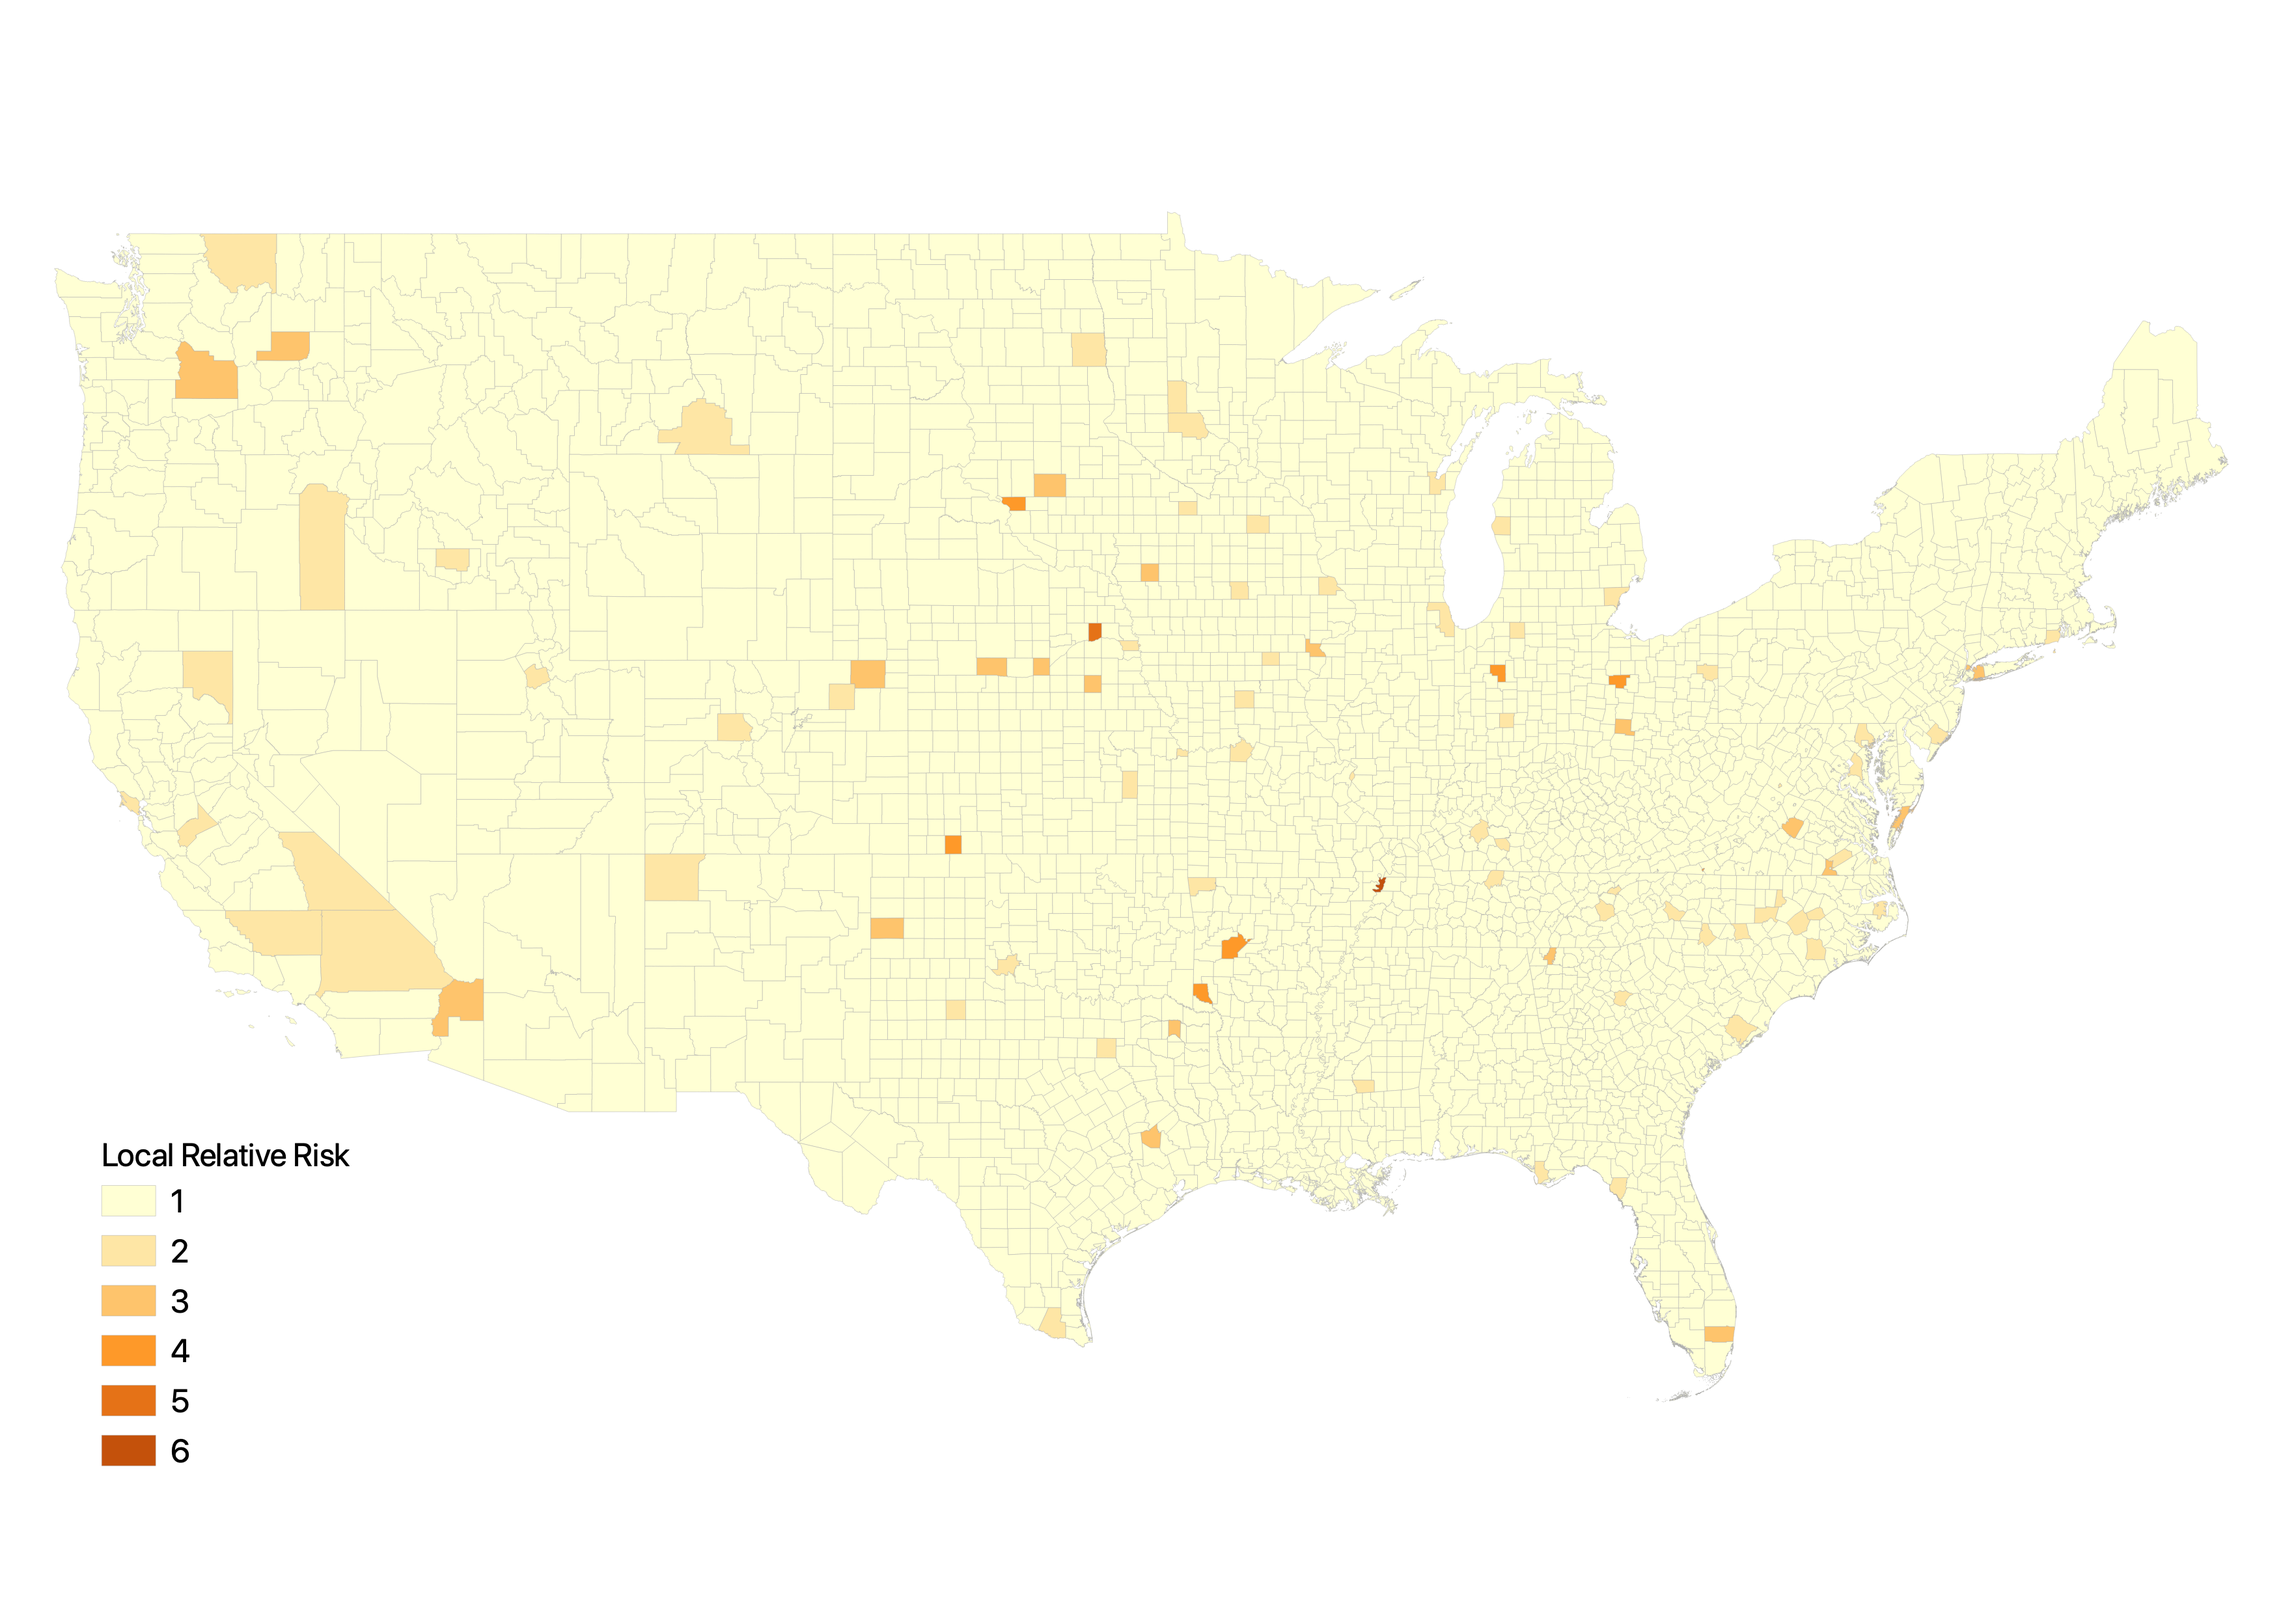
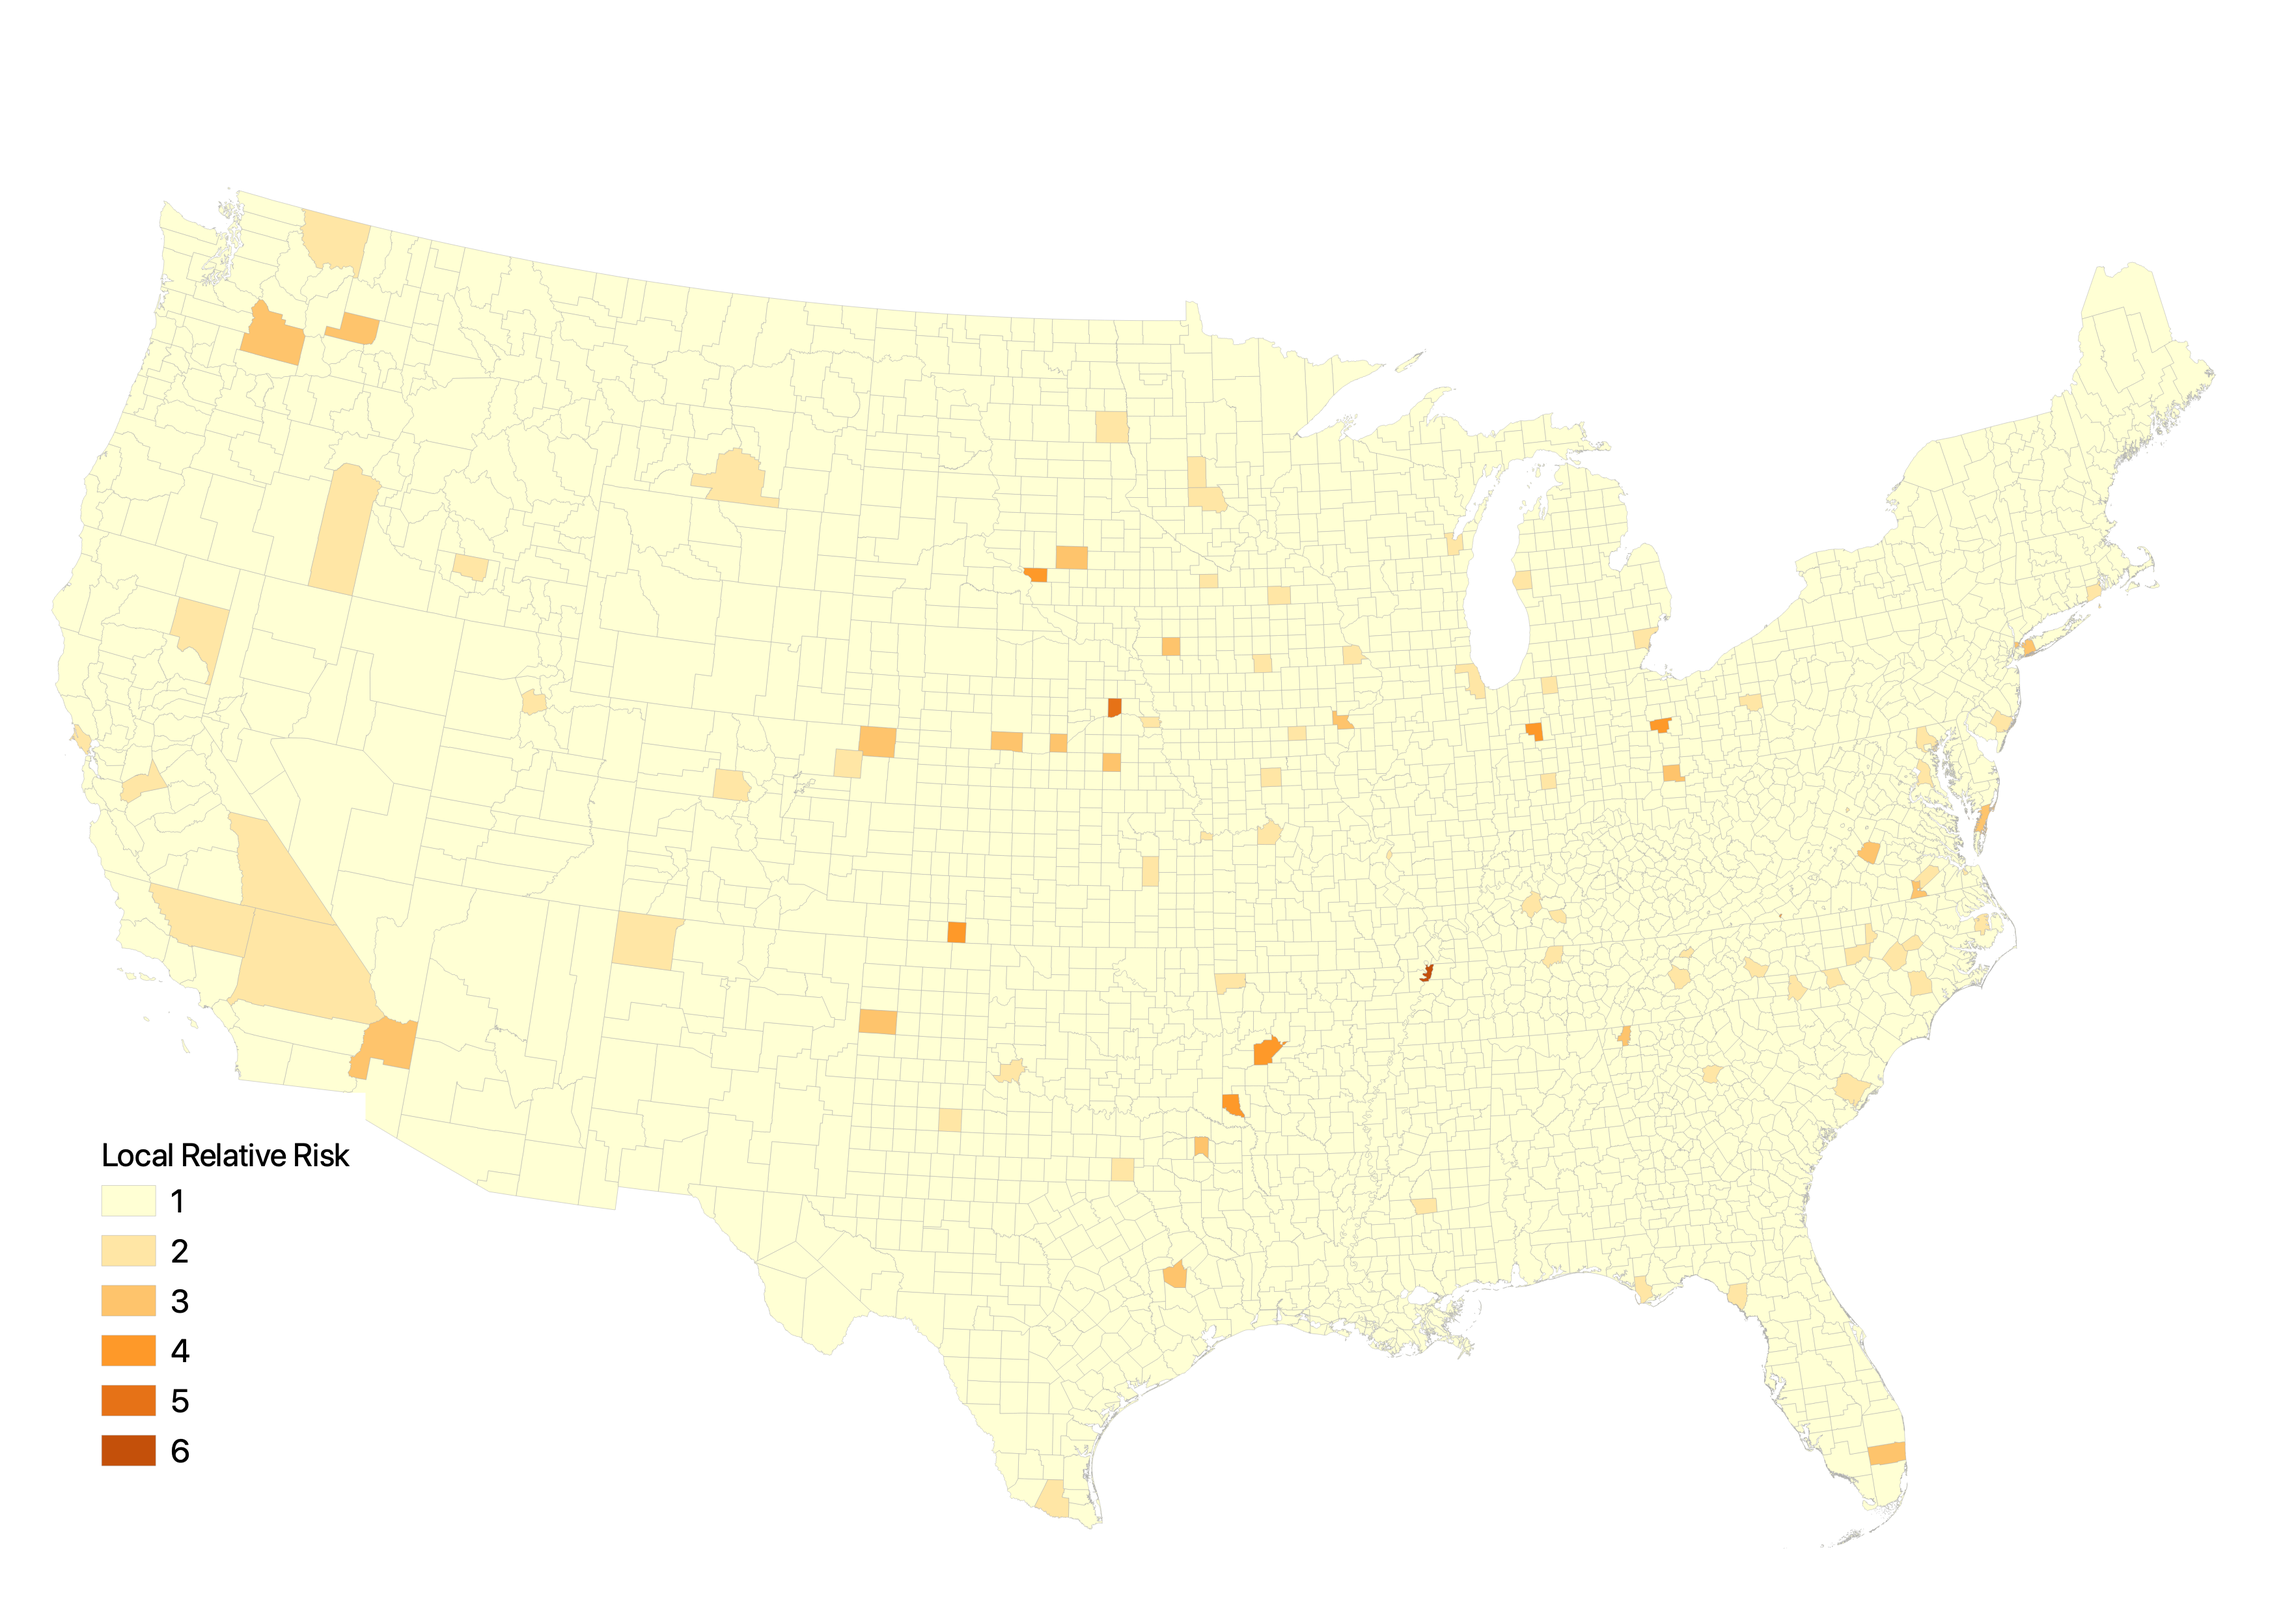
last blog post

Changed region(s): [[0.0, 0.1242, 0.9946, 0.9625], [0.2797, 0.2484, 0.3419, 0.3415], [0.2176, 0.4036, 0.2486, 0.4657]]

diff --git a/chakraborty-reproduction.md b/chakraborty-reproduction.md
@@ -2,12 +2,113 @@
 layout: page
 title: Chakraborty Reproduction
 ---
-Chakraborty only included the relative risk for the center county of each cluster.
-We calculate the relative risk for each county.
-It might be better to have one risk score for the entire cluster. Keyword: might. We would have to try it.
+
+## Chakraborty's Work
+
+In *Social inequities in the distribution of COVID-19: An intra-categorical analysis of people with disabilities in the U.S.*, Jayajit Chakraborty conducts "the first national scale study of the relationship between COVID-19 incidence and disability characteristics in the U.S."
+His goal is to determine whether there is a relationship between COVID-19 prevalence and high concentrations of people with disabilities (PwDs), particularly socio-economically disadvantaged PwDs, categorized by:
+- Race
+- Ethnicity
+- Poverty status
+- Age
+- Biological sex
+
+His work draws on two data sources:
+1. County level COVID-19 statistics from Johns Hopkins -- both totals and cases per 100,000.
+2. 2018 American Community Survey data -- PwD counts categorized by race, ethnicity, poverty status, age, and biological sex, fromm which Chakraborty calculates rates.
+
+To address his question, Chakraborty applies two statistical techniques.
+
+**First**, he calculates bivariate Pearson correlation coefficients in order to quantify the correlations between COVID-19 prevalence and each disability.
+Like other statistical techniques describing correlations, bivariate Pearson corrrelation coefficients are all calculate on a scale from -1 to 1, where -1 indicates a perfect negative relationship, a 0 indicates no relationship, and a 1 indicates a perfect positive relationship.
+Chakraborty's results are displayed in the following figure, copied from his paper.
+
+![Table 1](assets/Chakraborty-figure-1.png)
+
+As you can see, most r-values are close to 0, indicating relatively weak correlations, yet many of these correlations are statistically significant with small p-values.
+This is a strange dichotomy, which seems somewhat unrealistic.
+Note that we are using a massive dataset, and we can almost always find something that is "statistically significant" if we look at enough data points.
+
+In the table, it appears that traditionally advantaged subsets of PwDs, like men, non-Hispanic White people, and people above the poverty level tend to have exhibit slightly negative correlations; traditionally disadvantaged subsets of PwDs, like women, Black people, and impoverished people tend to exhibit slightly positive correlations.
+Given what we already know about the COVID-19 pandemic, this makes sense.
+Marginalized communities tend to have inadequate access to healthcare resources, live in more crowded housing conditions, and work in essential fields at higher rates than the general population, all factors which increase their risk of catching COVID-19.   
+
+**Second**, Chakraborty uses General Estimating Equations (GEEs) to adjust for spatial autocorrelation when examining the correlations between his predictor and response variables.
+To calculate a GEE, one must first define spatial clusters of observations.
+GEEs generate correlation coefficients, much like the Pearson's r, under the assumption that observations within a cluster are correlated and observations in different clusters are independent.
+Chakraborty categorizes counties into different clusters based on two factors:
+1. The state in which they are located.
+This makes sense because different states implemented different COVID-19 policies, so the conditions causing varying disease prevalence vary between states.
+2. The Relative Risk (RR) for COVID-19 incidence, defined as RR = ((local COVID-19 cases)/(local pop))/((US COVID-19 cases)/(US pop)).
+He classified counties into 6 categories based on their RR levels.
+But before categorizing counties based on their RR levels, he applied Kulldorf Spatial Scan Cluster Detection in order to determine clusters of counties where COVID rates were highly correlated.
+Counties outside of a cluster were assigned the lowest category of RR rates and the center county in each cluster received an RR score based on the counties in its cluster.
 
 
-Note that the coefficients and p-values are all small. We are working with a massive dataset, so even though the variables have just a small impact on the prevalence of COVID-19, we find significant levels in our p-values. In massive datasets we can almost always find something that is significant.
+Classifying counties based on those two factors, Chakraborty created a total of 102 clusters, which included between 1 and 245 counties.
+Applying GEEs to his data, Chakraborty generated the following table of results, which overall were relatively similar to the previous results.
+
+![Table 2](assets/chakraborty-figure-2.png)
 
 
-![Chakraborty Figure](assets/chakroborty_figure.png)
+## Our Reproduction
+
+In lab we reproduced Chakraborty's work using a research compendium put together by Professor Holler and his research assistants.
+Our research repository can be found [here](https://github.com/Liam-W-Smith/RPr-Chakraborty-2021).
+
+The first step was to reproduce *figure 1* from his paper, which illustrated the prevalence of COVID-19 cases on the county level across the USA.
+Once we obtained the appropriate data, this was a fairly simple task and our map looked practically identical to his; we even used the same classification and color schemes!
+As an addition to his work, we also mapped disability rates around the country.
+His paper was relatively light on visuals, and including a map of disability rates provides important context when analyzing spatial patterns of COVID-19 and disability characteristics.
+Notice how there is a distinct region in the southeast and southwest where COVID-19 prevalence and disability rates are both high.
+In other parts of the country, high rates of both factors rarely intersect.
+
+![Figure 1](assets/chak-merged.png)
+
+The second step was to reproduce Chakraborty's statistical analysis with Pearson correlations.
+Upon implementing this methodology in R, we found results that are relatively consistent with his.
+The exact values varied slightly (maximum difference between our r-values and his was .006), but the conclusions we draw from our results are the same.
+However, we did realize that Pearson's R is an inappropriate statistical test for this dataset.
+Pearson's R assumes that data is normally distributed, and when we ran a Shapiro-Wilk test for normality, we found that none of our variables were normally distributed.
+
+Thus, as an improvement to Chakraborty's work, we also calculated Spearman's Rho correlation coefficients.
+Spearman's Rho also assesses correlations between variables, but it does not assume a normal distribution of data.
+In calculating Spearman's Rho correlation coefficients we noticed substantial changes from Pearson's R, and there were several instances where the sign of the coefficient changed between the two tests.
+In particular, the coefficients for percent native and percent female changed from positive to negative, meaning that according to Spearman's Rho, counties with higher Native American and female populations are actually less likely to experience high COVID-19 rates.
+
+The last step was to reproduce Chakraborty's analysis with General Estimating Equations.
+First, we implemented the Kulldorf Spatial Scan Cluster Detection using the SpatialEpi package in R to generate clusters.
+Next, we calculated RR scores for each county in a manner that improved Chakraborty's analysis.
+In his work, counties outside of clusters received the lowest RR score, which we keep the same.
+However, counties within clusters also received the lowest RR score unless they were the center county in that cluster.
+This seems inappropriate, because the Kulldorf Spatial Scan indicates that all counties within clusters experience heightened risk of COVID-19 levels.
+In our reproduction, we instead calculate the relative risk for every county within a cluster.
+The figure below illustrates that this modification results in substantially more counties being designated as higher risk.
+The map on the left shows the relative risk classes using Chakraborty's method while the map on the right shows the relative risk classes using our improved method.
+
+ ![Chakraborty Figure](assets/chakroborty_merged.png)
+
+After running GEEs on our reclassified data, we found that our results were still very similar to Chakraborty's.
+Even with our modified RR scores, the signs of the correlation corresponding to each variable remained the same.
+The magnitudes of the correlations, however, differed slightly between the original study and our reproduction.
+
+## Next Steps
+
+Although Professor Holler and his research assistants successfully reproduced this study, there are areas in which the study could be improved.
+For example, since the Kulldorf Spatial Scan considers clusters to be one unit, we might be able to improve the results by generating a risk score for each cluster rather than a risk score for each county.
+Additionally, our current results indicate that counties with higher proportions of privileged disabled individuals tend to have lower COVID-19 rates and counties with higher proportions of disabled individuals of marginalized backgrounds  tend to have higher COVID-19 rates.
+I would also like to see some evidence that these results are due to the interaction between disability AND the other factors (race, age, sex, etc...), rather than just those other factors.
+
+For example, counties with high proportions of Black PwDs are associated with high COVID-19 rates.
+If we calculated the same statistics for counties with high proportions of Black people, how would our results differ?
+Identifying and analyzing that type of difference would allow us to conclude whether the correlations we found are due to the interaction between disabilities and socio-economic factors or merely the to the socio-economic factors.
+
+Our understanding of thsi topic may also benefit from replication studies.
+This analysis was conducted using COVID-19 data from August 1, 2020.
+It may be interesting and meaningful to determine whether the patterns identified in this study remained the same over the course of the pandemic.
+Johns Hopkins, the source of the COVID-19 data for this study, updates its online COVID-19 database daily, and one could easily implement our workflow using data from different days.
+It may also be valuable to replicate the study in different countries, in order to see how the relationships between COVID-19 and disability characteristics vary around the world.
+
+**References:**
+
+- Chakraborty, J. (2021). Social inequities in the distribution of COVID-19: An intra-categorical analysis of people with disabilities in the U.S. Disability and Health Journal, 14(1), 101007. [https://doi.org/10.1016/j.dhjo.2020.101007](https://doi.org/10.1016/j.dhjo.2020.101007)

diff --git a/index.md b/index.md
@@ -16,3 +16,4 @@ title: Main page
 4. [Research Compendia as a Tool to Learn Spatial Analysis](Research-Compendium-Learning-Spatial-Analysis)
 5. [Understanding Uncertainty in Vulnerability Indices](vulnerability_and_uncertainty)
 6. [Uncertainty in Volunteered Geographic Information](VGI-Uncertainty)
+7. [Reproducing Chakraborty's Analysis of COVID-19 and Disability Characteristics](chakraborty-reproduction)
